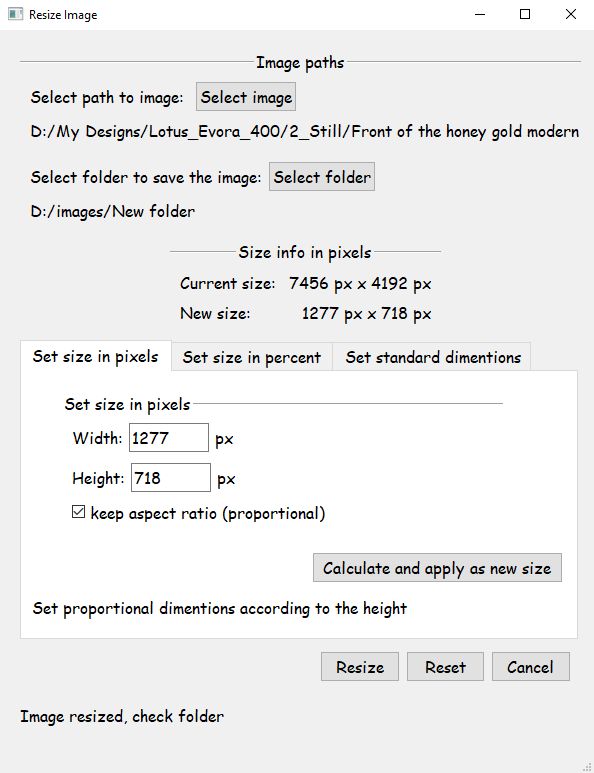
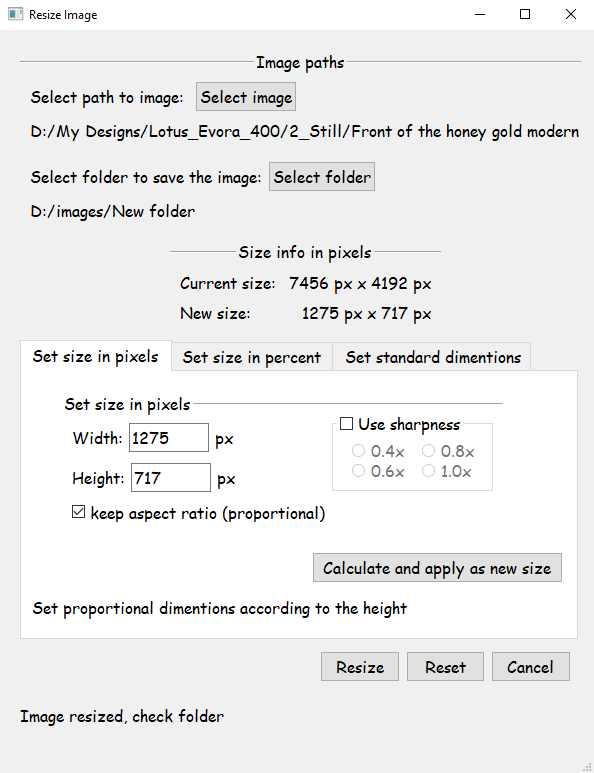
add sharpness to resizing in pixels and percent

diff --git a/App_main/UI/image_resize_ui.py b/App_main/UI/image_resize_ui.py
@@ -131,6 +131,24 @@ class Ui_mw_resize_image(object):
         self.cb_aspect_ratio = QtWidgets.QCheckBox(parent=self.gb_new_image_size_in_pixels)
         self.cb_aspect_ratio.setGeometry(QtCore.QRect(10, 110, 271, 20))
         self.cb_aspect_ratio.setObjectName("cb_aspect_ratio")
+        self.gb_sharp_pixels = QtWidgets.QGroupBox(parent=self.gb_new_image_size_in_pixels)
+        self.gb_sharp_pixels.setEnabled(True)
+        self.gb_sharp_pixels.setGeometry(QtCore.QRect(270, 20, 161, 80))
+        self.gb_sharp_pixels.setCheckable(True)
+        self.gb_sharp_pixels.setChecked(False)
+        self.gb_sharp_pixels.setObjectName("gb_sharp_pixels")
+        self.rb_sharp_pix_04_px = QtWidgets.QRadioButton(parent=self.gb_sharp_pixels)
+        self.rb_sharp_pix_04_px.setGeometry(QtCore.QRect(20, 30, 61, 17))
+        self.rb_sharp_pix_04_px.setObjectName("rb_sharp_pix_04_px")
+        self.rb_sharp_pix_06_px = QtWidgets.QRadioButton(parent=self.gb_sharp_pixels)
+        self.rb_sharp_pix_06_px.setGeometry(QtCore.QRect(20, 50, 61, 17))
+        self.rb_sharp_pix_06_px.setObjectName("rb_sharp_pix_06_px")
+        self.rb_sharp_pix_08_px = QtWidgets.QRadioButton(parent=self.gb_sharp_pixels)
+        self.rb_sharp_pix_08_px.setGeometry(QtCore.QRect(90, 30, 61, 17))
+        self.rb_sharp_pix_08_px.setObjectName("rb_sharp_pix_08_px")
+        self.rb_sharp_pix_1_px = QtWidgets.QRadioButton(parent=self.gb_sharp_pixels)
+        self.rb_sharp_pix_1_px.setGeometry(QtCore.QRect(90, 50, 51, 17))
+        self.rb_sharp_pix_1_px.setObjectName("rb_sharp_pix_1_px")
         self.lb_pixel_message = QtWidgets.QLabel(parent=self.tab_pixels)
         self.lb_pixel_message.setGeometry(QtCore.QRect(10, 220, 531, 31))
         self.lb_pixel_message.setText("")
@@ -177,6 +195,23 @@ class Ui_mw_resize_image(object):
         self.lb_height_perc = QtWidgets.QLabel(parent=self.layoutWidget_7)
         self.lb_height_perc.setObjectName("lb_height_perc")
         self.hl_height_percent.addWidget(self.lb_height_perc)
+        self.gb_sharp_percent = QtWidgets.QGroupBox(parent=self.gb_new_image_size_in_percent)
+        self.gb_sharp_percent.setGeometry(QtCore.QRect(270, 20, 161, 80))
+        self.gb_sharp_percent.setCheckable(True)
+        self.gb_sharp_percent.setChecked(False)
+        self.gb_sharp_percent.setObjectName("gb_sharp_percent")
+        self.rb_sharp_perc_04_px = QtWidgets.QRadioButton(parent=self.gb_sharp_percent)
+        self.rb_sharp_perc_04_px.setGeometry(QtCore.QRect(20, 30, 61, 17))
+        self.rb_sharp_perc_04_px.setObjectName("rb_sharp_perc_04_px")
+        self.rb_sharp_perc_06_px = QtWidgets.QRadioButton(parent=self.gb_sharp_percent)
+        self.rb_sharp_perc_06_px.setGeometry(QtCore.QRect(20, 50, 61, 17))
+        self.rb_sharp_perc_06_px.setObjectName("rb_sharp_perc_06_px")
+        self.rb_sharp_perc_08_px = QtWidgets.QRadioButton(parent=self.gb_sharp_percent)
+        self.rb_sharp_perc_08_px.setGeometry(QtCore.QRect(90, 30, 61, 17))
+        self.rb_sharp_perc_08_px.setObjectName("rb_sharp_perc_08_px")
+        self.rb_sharp_perc_1_px = QtWidgets.QRadioButton(parent=self.gb_sharp_percent)
+        self.rb_sharp_perc_1_px.setGeometry(QtCore.QRect(90, 50, 51, 17))
+        self.rb_sharp_perc_1_px.setObjectName("rb_sharp_perc_1_px")
         self.lb_perc_message = QtWidgets.QLabel(parent=self.tab_percent)
         self.lb_perc_message.setGeometry(QtCore.QRect(10, 220, 531, 31))
         self.lb_perc_message.setObjectName("lb_perc_message")
@@ -274,6 +309,11 @@ class Ui_mw_resize_image(object):
         self.lb_width_pixels.setText(_translate("mw_resize_image", "Width:"))
         self.lb_width_px.setText(_translate("mw_resize_image", "px"))
         self.cb_aspect_ratio.setText(_translate("mw_resize_image", "keep aspect ratio (proportional)"))
+        self.gb_sharp_pixels.setTitle(_translate("mw_resize_image", "Use sharpness"))
+        self.rb_sharp_pix_04_px.setText(_translate("mw_resize_image", "0.4x"))
+        self.rb_sharp_pix_06_px.setText(_translate("mw_resize_image", "0.6x"))
+        self.rb_sharp_pix_08_px.setText(_translate("mw_resize_image", "0.8x"))
+        self.rb_sharp_pix_1_px.setText(_translate("mw_resize_image", "1.0x"))
         self.pb_calculate_pixels.setText(_translate("mw_resize_image", "Calculate and apply as new size"))
         self.tw_set_size_tabs.setTabText(self.tw_set_size_tabs.indexOf(self.tab_pixels), _translate("mw_resize_image", "Set size in pixels"))
         self.gb_new_image_size_in_percent.setTitle(_translate("mw_resize_image", "Set size in pecent"))
@@ -281,6 +321,11 @@ class Ui_mw_resize_image(object):
         self.lb_width_perc.setText(_translate("mw_resize_image", "%"))
         self.lb_height_percent.setText(_translate("mw_resize_image", "Height:"))
         self.lb_height_perc.setText(_translate("mw_resize_image", "%"))
+        self.gb_sharp_percent.setTitle(_translate("mw_resize_image", "Use sharpness"))
+        self.rb_sharp_perc_04_px.setText(_translate("mw_resize_image", "0.4x"))
+        self.rb_sharp_perc_06_px.setText(_translate("mw_resize_image", "0.6x"))
+        self.rb_sharp_perc_08_px.setText(_translate("mw_resize_image", "0.8x"))
+        self.rb_sharp_perc_1_px.setText(_translate("mw_resize_image", "1.0x"))
         self.pb_calculate_percent.setText(_translate("mw_resize_image", "Calculate and apply as new size"))
         self.tw_set_size_tabs.setTabText(self.tw_set_size_tabs.indexOf(self.tab_percent), _translate("mw_resize_image", "Set size in percent"))
         self.gb_standard_dimentions.setTitle(_translate("mw_resize_image", "Set standard dimentions (pixels)"))

diff --git a/App_main/image_resizer.py b/App_main/image_resizer.py
@@ -1,15 +1,17 @@
 import os
 import sys
-from time import sleep
 
 import PyQt6.QtWidgets as qtw
-from PIL import Image
+from PIL import Image, ImageEnhance
 from UI.image_resize_ui import Ui_mw_resize_image
 
 
 class ImageResizer(qtw.QMainWindow, Ui_mw_resize_image):
     im_path, save_path, im_name, im_extention = '', '', '', ''
-    asp_ratio = bool()
+    asp_ratio: bool = False
+    gb_sharp_px: bool = False
+    gb_sharp_prc: bool = False
+    sharp: float = 0.0
     im_width, im_height = 0, 0
     new_im_width, new_im_height = 0, 0
 
@@ -19,6 +21,8 @@ class ImageResizer(qtw.QMainWindow, Ui_mw_resize_image):
         self.pb_image_path.clicked.connect(self.path_to_image)
         self.pb_folder_path.clicked.connect(self.path_to_folder)
         self.cb_aspect_ratio.toggled.connect(self.aspect_ratio)
+        self.gb_sharp_pixels.toggled.connect(self.gb_sharp_pix)
+        self.gb_sharp_percent.toggled.connect(self.gb_sharp_perc)
 
         self.pb_calculate_pixels.clicked.connect(self.pixels_setup)
         self.pb_calculate_percent.clicked.connect(self.percent_setup)
@@ -45,6 +49,34 @@ class ImageResizer(qtw.QMainWindow, Ui_mw_resize_image):
     def aspect_ratio(self):
         cbutton = self.sender()
         self.asp_ratio = cbutton.isChecked()
+    
+    def gb_sharp_pix(self):
+        self.gb_sharp_px = self.gb_sharp_pixels.isChecked()
+    
+    def gb_sharp_perc(self):
+        self.gb_sharp_prc = self.gb_sharp_percent.isChecked()
+    
+    def sharp_pixels(self):
+        if self.gb_sharp_px:
+            if self.rb_sharp_pix_04_px.isChecked():
+                self.sharp = 0.4
+            elif self.rb_sharp_pix_06_px.isChecked():
+                self.sharp = 0.6
+            elif self.rb_sharp_pix_08_px.isChecked():
+                self.sharp = 0.8
+            elif self.rb_sharp_pix_1_px.isChecked():
+                self.sharp = 1.0
+
+    def sharp_percent(self):
+        if self.gb_sharp_prc:
+            if self.rb_sharp_perc_04_px.isChecked():
+                self.sharp = 0.4
+            elif self.rb_sharp_perc_06_px.isChecked():
+                self.sharp = 0.6
+            elif self.rb_sharp_perc_08_px.isChecked():
+                self.sharp = 0.8
+            elif self.rb_sharp_perc_1_px.isChecked():
+                self.sharp = 1.0
     
     def pixels_setup(self):
         if self.asp_ratio:
@@ -164,6 +196,10 @@ class ImageResizer(qtw.QMainWindow, Ui_mw_resize_image):
                 (self.new_im_width, self.new_im_height),
                 Image.Resampling.LANCZOS
             )
+            if self.sharp != 0:
+                img = ImageEnhance.Sharpness(img)
+                img = img.enhance(1+self.sharp)
+            
             img_name = '{}_{}x{}.{}'.format(
                 self.im_name,
                 self.new_im_width,
@@ -191,6 +227,10 @@ class ImageResizer(qtw.QMainWindow, Ui_mw_resize_image):
         self.le_height_percent.clear()
         self.rb_640_480.setChecked(True)
         self.lb_dims_message.clear()
+        self.rb_sharp_pix_04_px.setChecked(True)
+        self.rb_sharp_perc_04_px.setChecked(True)
+        self.gb_sharp_pixels.setChecked(False)
+        self.gb_sharp_percent.setChecked(False)
 
 
 
